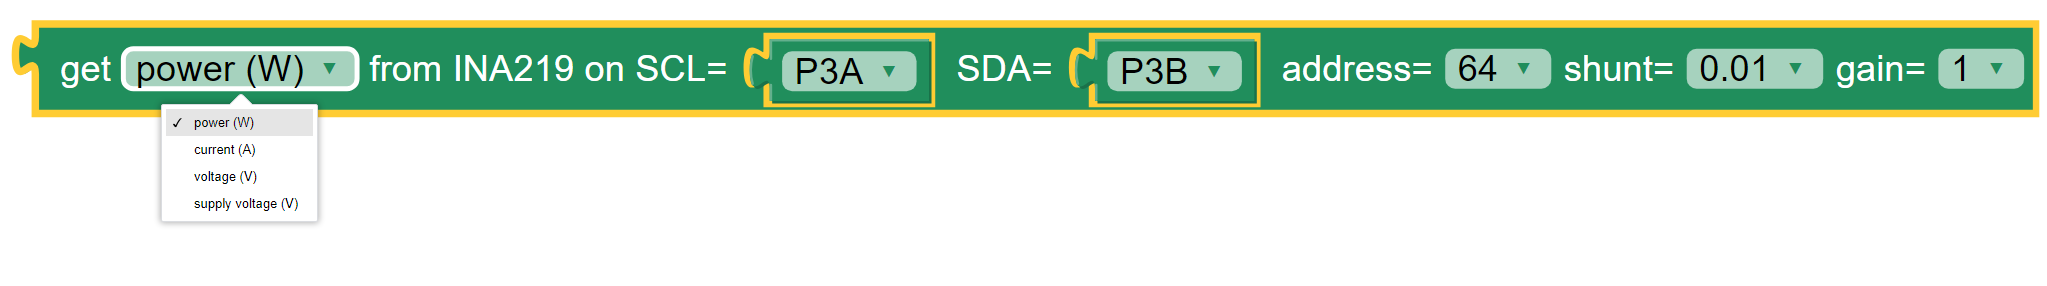
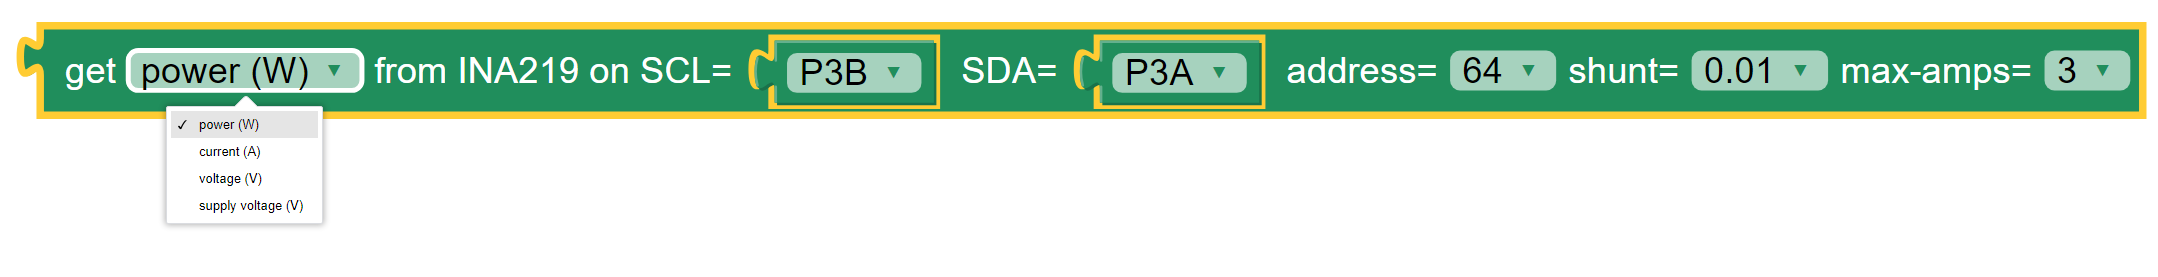
Update INA219 blocks and information

Changed region(s): [[0.0, 0.0578, 1.0, 0.5776], [0.0616, 0.6931, 0.1539, 0.8375], [0.0923, 0.6065, 0.1231, 0.6643]]

diff --git a/docs/source/sensors.rst b/docs/source/sensors.rst
@@ -417,23 +417,69 @@ Larger shunt resistance will improve the resolution of the current reading but w
 Care must also be taken to not exceed the shunt resistor's power rating which is typically 2 watts.  
 Power in the shunt resistor is dissipated as heat and is equal to i^2 x R, where i is current in amps, and R the resistance in ohms.
 
-.. image:: images/sensors-get-power-ina219-gain.png
+.. image:: images/sensors-get-power-ina219-maxamps.png
    :scale: 50%
    :align: center
 
 
-The sixth option is a drop-down of gains applied to the current readings, and consequently the power readings.
-The available values for gain are: ``1``, ``1/2``, ``1/4`` and ``1/8``.
-Lower gains ensure that higher currents and/or shunt resistance values do not force the the current readings out of range.
-Lower gains also degrade the resolution of current readings.
+The sixth option is a drop-down list of the maximum currents to be measured.
+The values in he list change according to the shunt resistance selected.  
 
-For general STEM use, involving low current loads, it is recommended that the gain setting be left on 1.
+To achieve the best resolution in current measurements, a the maximum current above and closest 
+in value to the maximum current expected through the load should be selected.  
+The block will try to optimise the INA219 sensor settings for a given shunt resistor and maximum expected current.
+The current measurement ranges are shown in :numref:`ina219currents` for each choice of shunt resistor.  
+The **max-amps** choices are intended to optimise the internal gain setting of the INA219 sensor 
+and to avoid selecting currents which are beyond the safe operating range of the sensor (indicated by a red background).
+
+.. _ina219currents:
+.. figure:: images/sensors-get-power-ina219-shunt-amps.png
+   :scale: 50%
+   :align: center
+
+   INA219 current measurement ranges.
+
+
+Lower gains ensure that higher currents and/or shunt resistance values do not force the the current readings out of range.
+Lower gains will also reduce the resolution of current readings, and consequently of power readings.
+
+The combinations of shunt resistor and max-amps are shown below.
+
+.. image:: images/sensors-get-power-ina219-maxamps-001.png
+   :scale: 50%
+   :align: center
+
+
+.. image:: images/sensors-get-power-ina219-maxamps-050.png
+   :scale: 50%
+   :align: center
+
+
+.. image:: images/sensors-get-power-ina219-maxamps-100.png
+   :scale: 50%
+   :align: center
+
 
 
 About the INA219 Sensor
 """""""""""""""""""""""
 
 The INA219 sensor measures direct current, voltage and power from the circuit to which it is connected. It is commonly called a wattmeter.
+
+In a direct current circuit, electrical power delivered to an electrical load (measured in watts) is the arithmetic product of 
+the current flowing through the load (measured in amperes) and the voltage across the load's terminals (measured in volts).
+
+To measure the current, a low value resistor is placed in series with the load, and the voltage across the resistor's terminal is measured.  
+By applying Ohm's Law, the current can be derived (current I = voltage V / resistance R).  
+
+See also 
+
+* https://en.wikipedia.org/wiki/Voltmeter, 
+* https://en.wikipedia.org/wiki/Ammeter and 
+* https://en.wikipedia.org/wiki/Ohm%27s_law
+
+The INA219 sensor is commonly mounted on a breakout board equipped with terminals to attach the load and a power supply, 
+and a shunt resistor used to measure current flowing through the load.
 
 The interface with the **Kookaberry** is the I2C serial communications bus. I2C stands for Inter-Integrated-Circuit Communications (IIC or I2C).
 See https://en.wikipedia.org/wiki/I%C2%B2C for more detail.
